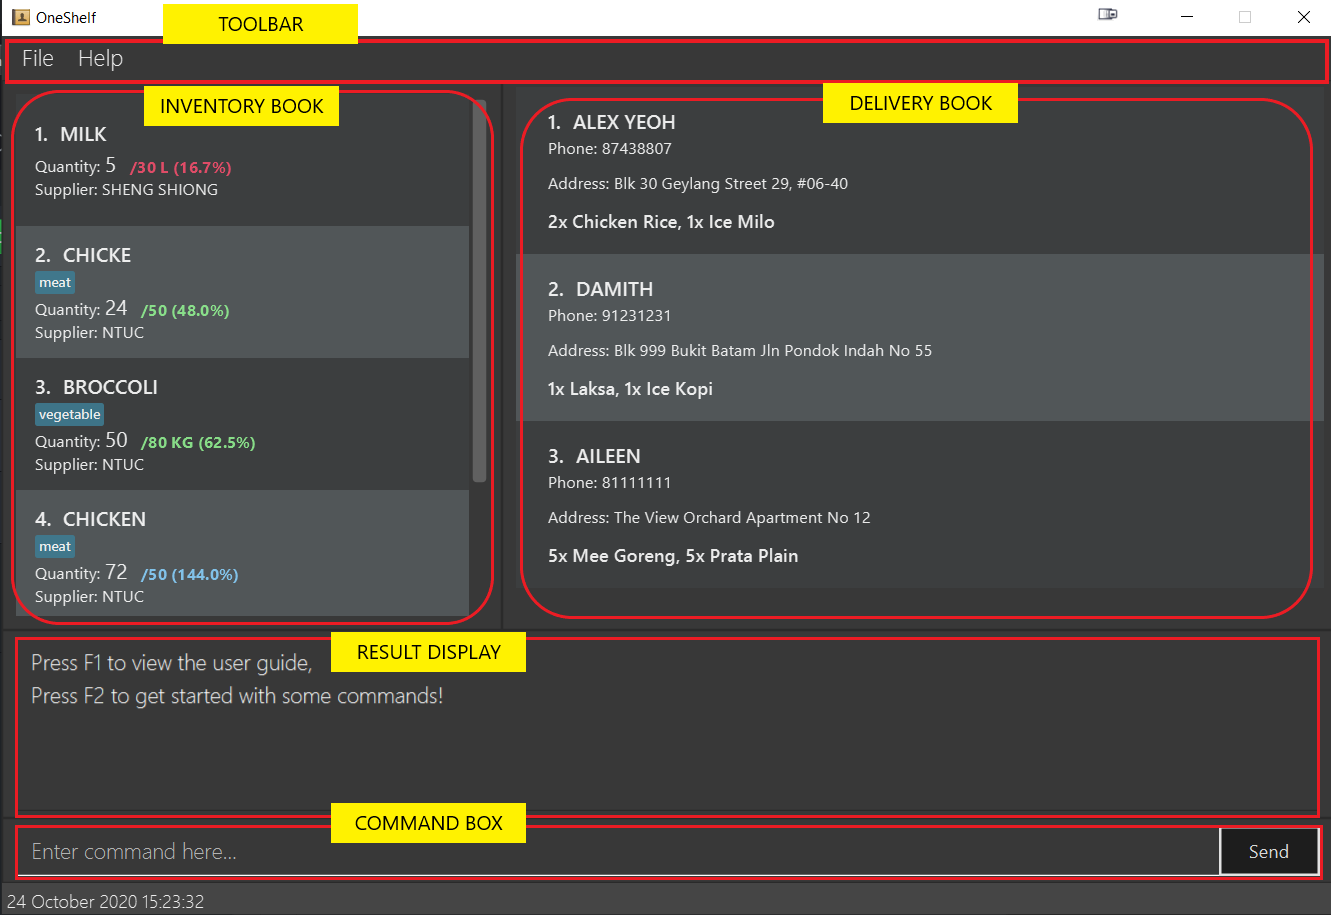
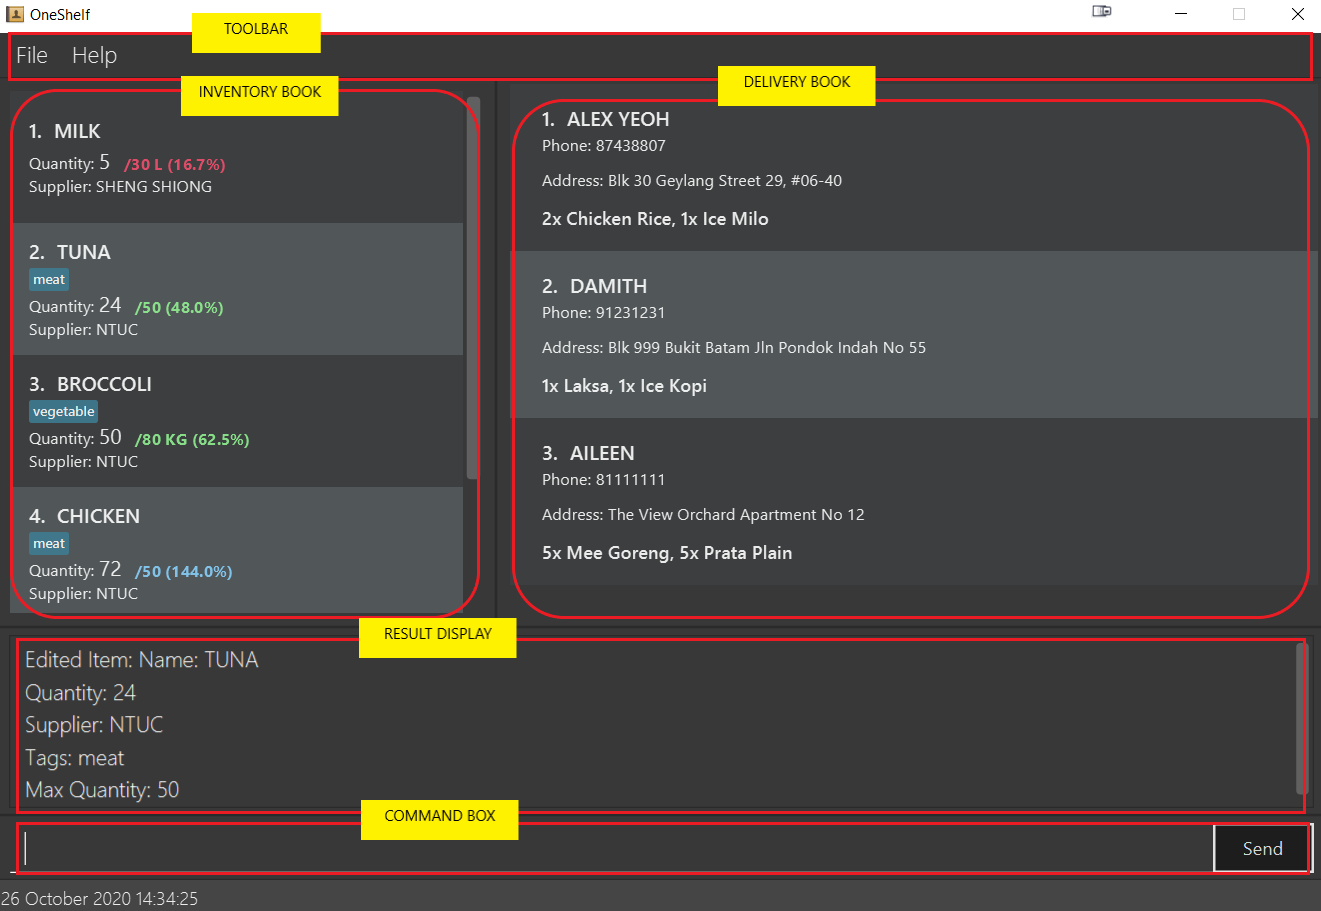
Change item and delivery toString

Changed region(s): [[0.0, 0.0, 1.0, 1.0], [0.0, 0.2459, 0.1862, 0.5225], [0.6207, 0.5532, 0.6518, 0.584]]

diff --git a/src/main/java/seedu/address/model/delivery/Delivery.java b/src/main/java/seedu/address/model/delivery/Delivery.java
@@ -74,7 +74,7 @@ public class Delivery {
     @Override
     public String toString() {
         final StringBuilder builder = new StringBuilder();
-        builder.append("Deliverer's Name")
+        builder.append("\nName: ")
                 .append(getName())
                 .append("\n")
                 .append("Phone: ")

diff --git a/src/main/java/seedu/address/model/item/Item.java b/src/main/java/seedu/address/model/item/Item.java
@@ -110,7 +110,7 @@ public class Item {
     @Override
     public String toString() {
         final StringBuilder builder = new StringBuilder();
-        builder.append("Name: ")
+        builder.append("\nName: ")
                 .append(getName())
                 .append("\n")
                 .append("Quantity: ")

diff --git a/docs/UserGuide.md b/docs/UserGuide.md
@@ -6,14 +6,14 @@ title: User Guide
 {:toc}
 --------------------------------------------------------------------------------------------------------------------
 ## 1. Introduction
-OneShelf is a desktop application for you to manage restaurant inventories and pending deliveries.
+**OneShelf** is a desktop application for you to manage your restaurant inventories. Additionally, you can also
+keep track of deliveries that has yet to be delivered to customers.
 It is easy to build and customise your inventories and deliveries by using
-only Command Line Interface. If you are a fast-typist restaurant manager
+only Command Line Interface. If you are a restaurant manager
 who prefers to use the Command Line Interface and needs to keep
-track of inventory items and pending deliveries, OneShelf is for you!
+track of inventory items and pending deliveries, **OneShelf** is for you.
 <br><br>
-This User Guide document will provide a general overview of installation, existing features, coming-up features
-as well as summary commands.
+This User Guide will provide a general overview of installation, existing features, and a sneak peek for upcoming features.
 
 
 
@@ -24,30 +24,30 @@ as well as summary commands.
 
 2. Download the latest `oneshelf.jar` from [here](https://github.com/AY2021S1-CS2103T-T12-1/tp/releases).
 
-3. Copy the file to the folder you want to use as the _home folder_ for your Inventory Book.
+3. Copy the file to the folder you want to use as the _home folder_ for this application.
 
-4. Double-click the file to start the app. The similar GUI shown below (Figure 1) should appear in a few seconds. <br>
+4. Double-click the file to start the app. Similar GUI shown below (Figure 1) should appear in a few seconds. <br>
    *Note how the app contains some sample data but the installed version on your desktop might have a different data set.*<br>
    <br> ![Ui](images/UiWithAnnotation.png) <br>
    Figure 1: Introduction to OneShelf User Interface
 
 5. Type the command `help start` in the command box and press Enter to execute it. <br>
-   A new help window shown below (Figure 2) should appear on your desktop.
+   A new help window shown below (Figure 2) should appear on your desktop and you are welcomed to follow the
+   guide given in the Help Start Window.
    <br> ![Help Window](images/UiHelpStart.png) <br>
    Figure 2: Help Start Window
-
 
 6. Refer to the [Features](#features) below for details of each command.
 
 --------------------------------------------------------------------------------------------------------------------
 ## 3. Features
 
-OneShelf has 2 main features that it is able to store, namely are:
+OneShelf has 2 main components, namely are:
 1. Inventory items
 2. Pending deliveries
 
 From here onwards, the term `item` and `delivery` are used specifically for inventory items and pending deliveries respectively.
-*You may want to refer to Figure 1 above.*
+*You may want to refer to Figure 1 above to see the placement of each component.*
 
 <div markdown="block" class="alert alert-info">
 **:information_source: Notes about the item command format:**<br>
@@ -72,21 +72,31 @@ From here onwards, the term `item` and `delivery` are used specifically for inve
 
 #### 3.1.1 Viewing help : `help`
 
+##### Help Start
+
 Format: `help start`
 If you are a first time user, we strongly encourage you to enter `help start` and follow the guide to kick-start your journey in OneShelf.
 
-Alternatives:
+To open up `help start` window, you can also do the following:
 * Press `F1` at any point in the usage of the app
-* GUI navigation menu at the top left
+* 1. Click on `Help` located at the top toolbar
+  1. Click on `Start F1`
+
+A new help window similar to Figure 1 should appear on your desktop.
+
+##### Help Summary
 
 Format: `help summary`
 
 We understand that even if you are not a first time user, it is not easy to remember all the commands within a single session.
 Should you need a list of summary commands, you can enter `help summary` and a new window similar to Figure 3 should appear.
 
-Alternatives:
+To open up `help summary` window, you can also do the following:
 * Press `F2` at any point in the usage of the app
-* GUI navigation menu at the top left
+* 1. Click on `Help` located at the top toolbar
+  1. Click on `Summary F2`
+    
+A new help window similar to Figure 3 below should appear on your desktop.
 
 <br> ![Help Summary Screenshot](images/HelpSummaryWindow.png) <br>
 Figure 3: Help Summary Window
@@ -223,9 +233,11 @@ Format: `delete-i INDEX` or `delete-d INDEX`
 * The index refers to the index number shown in the displayed item/ delivery list.
 * The index **must be a positive integer** 1, 2, 3, …
 
-Examples:
-* `list-i` followed by `delete-i 2` deletes the 2nd item in the inventory book.
-* `find-i Duck` followed by `delete-i 1` deletes the 1st item in the results of the `find-i` command.
+Example 1:
+1. `list-i` followed by `delete-i 2` deletes the 2nd item in the inventory book.
+
+Example 2:
+1. `find-d n/DAMITH` followed by `delete-d 1` deletes the 1st item in the results of the `find-d` command.
 
 
 
@@ -356,6 +368,7 @@ Notify the user if a certain stock is below threshold
 
 
 #### 5.3 Delivery summary
+
 | Action    | Format, Examples                                                                                    |
 |-----------|-----------------------------------------------------------------------------------------------------|
 |**Add to Delivery**    | `add-d` <br> e.g `add-d n/Alex Yeoh p/87438807 a/Blk 30 Geylang Street 29, #06-40 o/2x Chicken Rice, 1x Ice Milo` |
